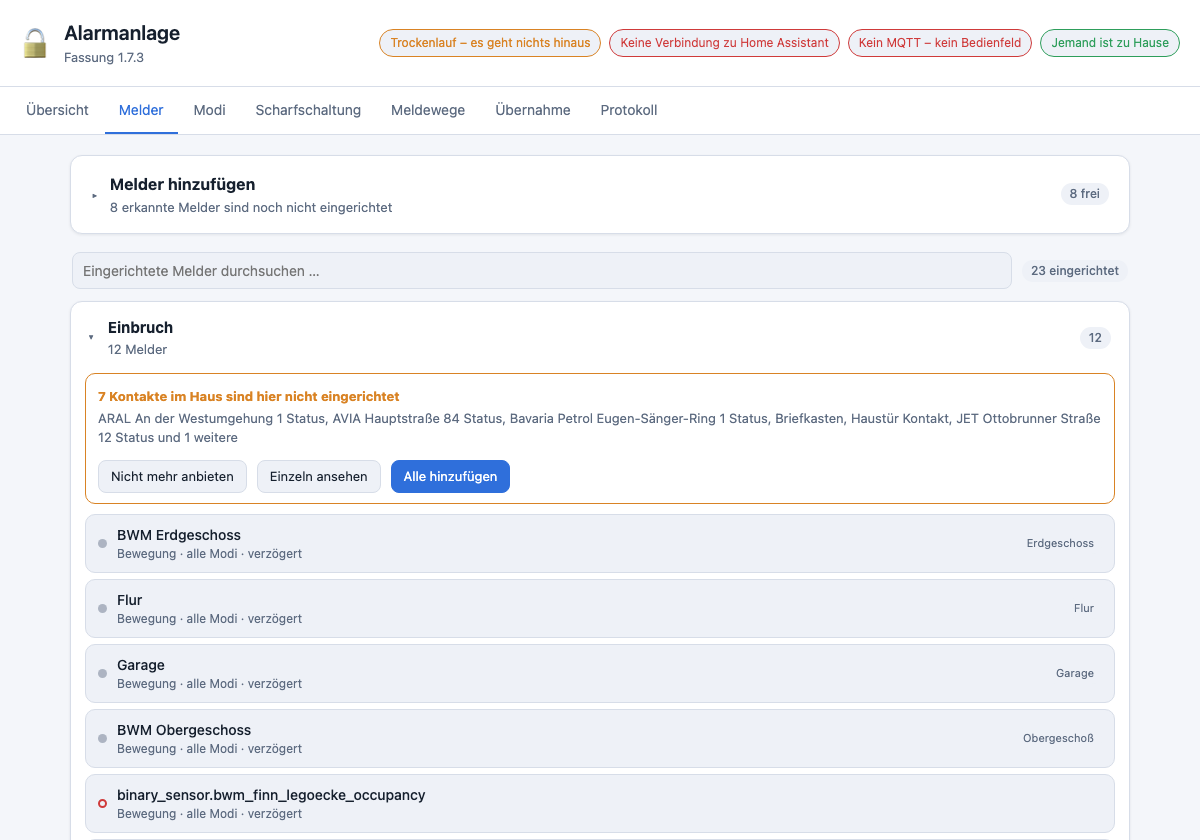
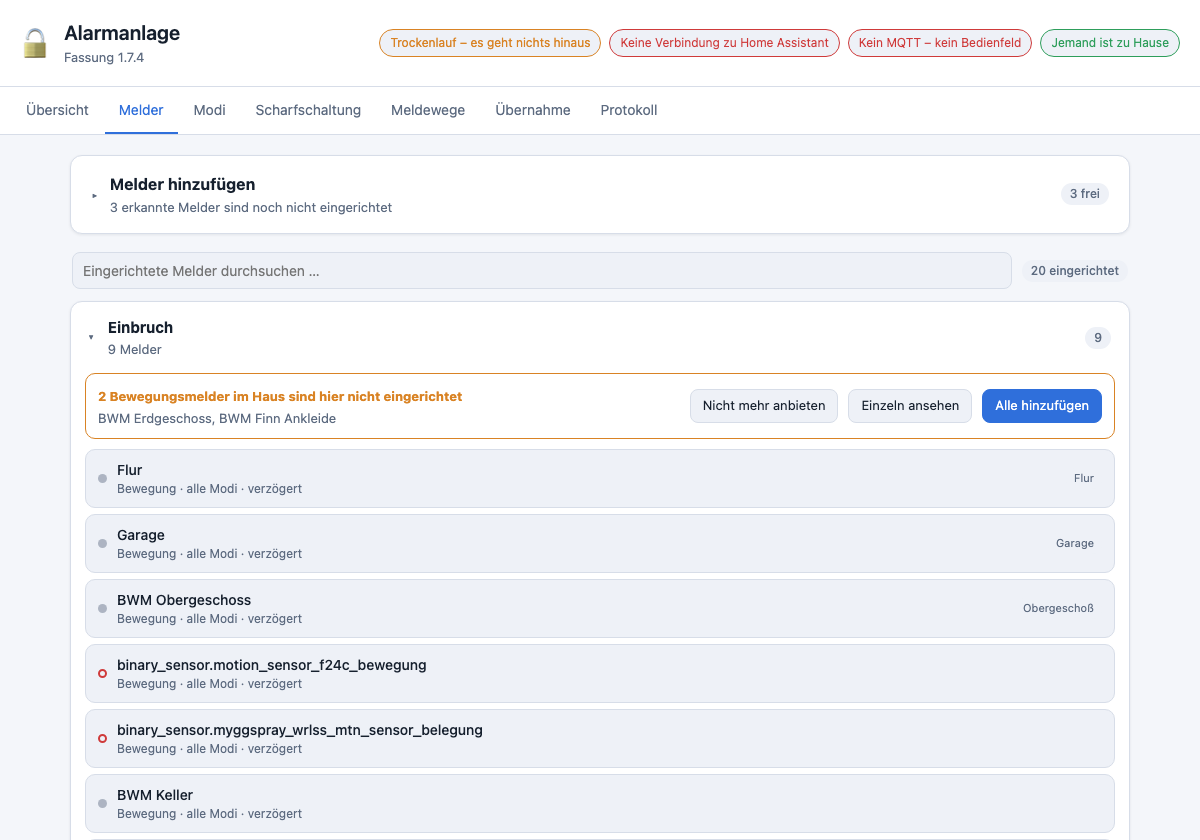
1.7.4: "Einzeln ansehen" zeigt die Einzelnen
Der Knopf am Hinweis oeffnete die vollstaendige Vorschlagsliste - in einem
gewachsenen Haus ein paar hundert Eintraege, und die drei gemeinten standen
irgendwo darin. Jetzt zeigt er genau die aus dem Hinweis, mit einem Kopf,
der das sagt, und einem Knopf "Weitere fuer diese Linie", der eine Ebene
weiter geht statt gleich ins Ganze.

Dazu ein Filter nach Linie ueber der Liste: "fuer Einbruch", "fuer Rauch",
"fuer Wasser". Wer im Einbruch-Zusammenhang sucht, will keine Rauchmelder
sehen - und erst recht nichts, was nur zufaellig dieselbe Geraeteklasse
traegt.

Und die Kopfzeile zaehlte falsch: "25 erkannte Melder sind noch nicht
eingerichtet" stand da, waehrend die Liste darunter drei zeigte. Sie
zaehlte die ausgeblendeten mit.

diff --git a/alarmanlagen_manager/www/app.js b/alarmanlagen_manager/www/app.js
@@ -10,6 +10,9 @@ const Z = {
   status: null,
   auswahl: null,
   seite: 'uebersicht',
+  /* Wenn der Blick aus einem Hinweis auf wenige Melder verengt ist:
+   * {entities, titel}. null = die ganze Liste. */
+  vorschlagFokus: null,
   ticker: null,
 };
 
@@ -432,12 +435,19 @@ function fehlHinweis(linieSchluessel, fehlend) {
   knoepfe.appendChild(weg);
 
   const ansehen = el('button', 'knopf klein leise', 'Einzeln ansehen');
-  ansehen.title = 'Öffnet die Liste – dort lässt sich auch ausblenden, was '
-    + 'gar kein Melder ist.';
+  ansehen.title = 'Zeigt genau diese Melder – dort lässt sich jeder einzeln '
+    + 'hinzufügen oder ausblenden.';
   ansehen.onclick = (ereignis) => {
     ereignis.preventDefault();
-    const arten = LINIENARTEN[linieSchluessel] || [];
-    $('melder-filter').value = arten.length === 1 ? arten[0] : '';
+    /* Nur die aus diesem Hinweis. Die volle Liste hat in einem gewachsenen
+     * Haus ein paar hundert Einträge; wer auf "Einzeln ansehen" drückt,
+     * meint die drei, die im Hinweis stehen. */
+    Z.vorschlagFokus = {
+      entities: fehlend.map((f) => f.entity_id),
+      titel: kasten.querySelector('strong').textContent,
+      linie: linieSchluessel,
+    };
+    $('melder-filter').value = '';
     $('melder-suche').value = '';
     $('melder-hinzufuegen').open = true;
     vorschlaegeZeichnen();
@@ -766,20 +776,28 @@ function melderSpeichern() {
 
 function standHinzufuegen() {
   const drin = new Set((Z.konfig.melder || []).map((m) => m.entity));
-  const frei = (Z.auswahl?.melder || []).filter((k) => !drin.has(k.entity_id));
+  /* Ausgeblendetes zählt nicht mit. Sonst behauptet die Kopfzeile „25
+   * erkannte Melder", während die Liste darunter drei zeigt – und wer die
+   * Zahl liest, sucht zweiundzwanzig, die es nicht gibt. */
+  const weg = new Set(Z.auswahl?.ignoriert || []);
+  const frei = (Z.auswahl?.melder || [])
+    .filter((k) => !drin.has(k.entity_id) && !weg.has(k.entity_id));
   const stand = $('hinzufuegen-stand');
   const zahl = $('hinzufuegen-zahl');
   if (!stand) return;
   const nuetzlich = frei.filter((k) => k.art !== 'sonstige');
-  stand.textContent = nuetzlich.length
-    ? `${nuetzlich.length} erkannte Melder sind noch nicht eingerichtet`
-    : 'Alles Erkannte ist eingerichtet';
+  stand.textContent = nuetzlich.length === 0
+    ? 'Alles Erkannte ist eingerichtet'
+    : nuetzlich.length === 1
+      ? '1 erkannter Melder ist noch nicht eingerichtet'
+      : `${nuetzlich.length} erkannte Melder sind noch nicht eingerichtet`;
   zahl.textContent = `${frei.length} frei`;
 }
 
 function vorschlaegeZeichnen() {
   const kasten = $('melder-vorschlaege');
   kasten.textContent = '';
+  kasten.parentElement.querySelector('.fokus-kopf')?.remove();
   const suche = $('melder-suche').value.toLowerCase();
   const filter = $('melder-filter').value;
   const drin = new Set((Z.konfig.melder || []).map((m) => m.entity));
@@ -787,6 +805,32 @@ function vorschlaegeZeichnen() {
 
   const weg = new Set(Z.auswahl?.ignoriert || []);
   const zeigeWeg = $('melder-ausgeblendet')?.checked;
+
+  /* Der Blick auf eine Auswahl, die aus einem Hinweis kommt. Sobald jemand
+   * sucht oder filtert, ist er wieder in der ganzen Liste – sonst wundert
+   * er sich, warum die Suche nichts findet. */
+  const fokus = (suche || filter) ? null : Z.vorschlagFokus;
+  if (fokus) {
+    const kopf = el('div', 'fokus-kopf');
+    const text = el('div');
+    text.appendChild(el('strong', null, fokus.titel));
+    text.appendChild(el('div', 'hilfe',
+      `Es werden nur diese ${fokus.entities.length} gezeigt.`));
+    kopf.appendChild(text);
+    const alle = el('button', 'knopf klein leise',
+      fokus.linie ? 'Weitere für diese Linie' : 'Alle Sensoren zeigen');
+    alle.onclick = (ereignis) => {
+      ereignis.preventDefault();
+      /* Nicht in die ganze Liste springen, sondern eine Ebene weiter:
+       * erst alles, was zu dieser Linie passt. Wer darüber hinaus will,
+       * stellt den Filter selbst um. */
+      if (fokus.linie) $('melder-filter').value = 'linie:' + fokus.linie;
+      Z.vorschlagFokus = null;
+      vorschlaegeZeichnen();
+    };
+    kopf.appendChild(alle);
+    kasten.parentElement.insertBefore(kopf, kasten);
+  }
   const sortiert = [...(Z.auswahl?.melder || [])].sort((a, b) => {
     const da = drin.has(a.entity_id) ? 1 : 0;
     const db = drin.has(b.entity_id) ? 1 : 0;
@@ -798,10 +842,18 @@ function vorschlaegeZeichnen() {
   });
 
   ausgeblendetStand(weg.size);
+  const nurDiese = fokus ? new Set(fokus.entities) : null;
   let gezeigt = 0;
   for (const kandidat of sortiert) {
-    if (weg.has(kandidat.entity_id) !== !!zeigeWeg) continue;
-    if (filter && kandidat.art !== filter) continue;
+    if (nurDiese && !nurDiese.has(kandidat.entity_id)) continue;
+    if (!nurDiese && weg.has(kandidat.entity_id) !== !!zeigeWeg) continue;
+    /* "für Einbruch" statt einer einzelnen Art: Wer im Einbruch-
+     * Zusammenhang sucht, will keine Rauchmelder sehen – und erst recht
+     * nichts, was nur zufällig dieselbe Geräteklasse trägt. */
+    if (filter.startsWith('linie:')) {
+      const arten = LINIENARTEN[filter.slice(6)] || [];
+      if (!arten.includes(kandidat.art)) continue;
+    } else if (filter && kandidat.art !== filter) continue;
     const bereich = bereiche[kandidat.entity_id] || '';
     if (suche && !`${kandidat.name} ${kandidat.entity_id} ${bereich}`
       .toLowerCase().includes(suche)) continue;
@@ -856,9 +908,15 @@ function ausgeblendetStand(anzahl) {
     `${anzahl} ausgeblendet anzeigen`;
 }
 
-$('melder-suche').oninput = vorschlaegeZeichnen;
+$('melder-suche').oninput = () => {
+  if ($('melder-suche').value) Z.vorschlagFokus = null;
+  vorschlaegeZeichnen();
+};
 $('melder-filtern').oninput = melderZeichnen;
-$('melder-filter').onchange = vorschlaegeZeichnen;
+$('melder-filter').onchange = () => {
+  if ($('melder-filter').value) Z.vorschlagFokus = null;
+  vorschlaegeZeichnen();
+};
 $('melder-ausgeblendet').onchange = vorschlaegeZeichnen;
 $('melder-alle-zurueck').onclick = async () => {
   const antwort = await schicke('api/melder/ignorieren', { alle_zurueck: true });

diff --git a/alarmanlagen_manager/www/index.html b/alarmanlagen_manager/www/index.html
@@ -92,13 +92,20 @@
         <div class="zeile">
           <input type="search" id="melder-suche" placeholder="Suchen …">
           <select id="melder-filter">
-            <option value="">alle Arten</option>
-            <option value="bewegung">Bewegung</option>
-            <option value="kontakt">Kontakt</option>
-            <option value="rauch">Rauch</option>
-            <option value="wasser">Wasser</option>
-            <option value="erschuetterung">Erschütterung</option>
-            <option value="sonstige">sonstige</option>
+            <optgroup label="Wofür">
+              <option value="linie:einbruch">für Einbruch</option>
+              <option value="linie:rauch">für Rauch</option>
+              <option value="linie:wasser">für Wasser</option>
+            </optgroup>
+            <optgroup label="Nach Art">
+              <option value="">alle Arten</option>
+              <option value="bewegung">Bewegung</option>
+              <option value="kontakt">Kontakt</option>
+              <option value="rauch">Rauch</option>
+              <option value="wasser">Wasser</option>
+              <option value="erschuetterung">Erschütterung</option>
+              <option value="sonstige">sonstige</option>
+            </optgroup>
           </select>
         </div>
         <div class="zeile" id="melder-ausgeblendet-zeile" style="display:none">

diff --git a/alarmanlagen_manager/www/style.css b/alarmanlagen_manager/www/style.css
@@ -337,6 +337,16 @@ label > input, label > select { display: block; margin-top: 4px; }
 .vorschlagszeile:last-child { border-bottom: 0; }
 .vorschlagszeile.drin { opacity: .45; }
 .vorschlagsliste { max-height: 340px; }
+/* Der Kopf über der verengten Liste. Ohne ihn sähe es aus, als wären nur
+   noch drei Sensoren im Haus. */
+.fokus-kopf {
+  display: flex; align-items: center; justify-content: space-between;
+  gap: 12px; flex-wrap: wrap;
+  border: 1px solid var(--akzent); border-radius: 8px;
+  padding: 8px 12px; margin-bottom: 8px;
+}
+.fokus-kopf strong { font-size: 13px; color: var(--akzent); }
+.fokus-kopf .hilfe { margin: 2px 0 0; }
 .kanal-weg {
   flex: 0 0 auto; border: 1px solid var(--rand); background: none;
   color: var(--text-leise); border-radius: 8px; cursor: pointer;

diff --git a/CHANGELOG.md b/CHANGELOG.md
@@ -1,5 +1,24 @@
 # Änderungen
 
+## 1.7.4 – 18.09.2026
+
+**„Einzeln ansehen“ zeigt jetzt die Einzelnen.** Der Knopf am Hinweis
+öffnete die vollständige Vorschlagsliste – in einem gewachsenen Haus ein
+paar hundert Einträge, und die drei gemeinten standen irgendwo darin. Jetzt
+zeigt er **genau die aus dem Hinweis**, mit einem Kopf, der das sagt, und
+einem Knopf *Weitere für diese Linie*, der eine Ebene weiter geht statt
+gleich ins Ganze.
+
+**Ein Filter nach Linie.** Über der Vorschlagsliste steht neben den
+einzelnen Arten jetzt *für Einbruch*, *für Rauch*, *für Wasser*. Wer im
+Einbruch-Zusammenhang sucht, will keine Rauchmelder sehen – und erst recht
+nichts, was nur zufällig dieselbe Geräteklasse trägt.
+
+**Die Kopfzeile zählte falsch.** „25 erkannte Melder sind noch nicht
+eingerichtet“ stand da, während die Liste darunter drei zeigte: Sie zählte
+die ausgeblendeten mit. Wer die Zahl liest, sucht sonst zweiundzwanzig, die
+es nicht gibt. Und bei genau einem heißt es jetzt „1 erkannter Melder ist“.
+
 ## 1.7.3 – 18.09.2026
 
 **„Nicht mehr anbieten“ direkt am Hinweis.** Der Hinweis „… sind hier nicht

diff --git a/HANDBUCH.md b/HANDBUCH.md
@@ -1,6 +1,6 @@
 # Handbuch – Alarmanlagen-Manager
 
-Für Home Assistant. Stand: Fassung 1.7.3.
+Für Home Assistant. Stand: Fassung 1.7.4.
 
 ---
 
@@ -378,6 +378,13 @@ hinzusehen, und dann verpasst er den Rauchmelder, der wirklich fehlt.
 Der Vorschlag geht nämlich nach der Geräteklasse, und die ist gutgläubig: In
 einer gewachsenen Installation tragen auch Dinge die Klasse *opening*, die
 mit dem Haus nichts zu tun haben – etwa der Öffnungszustand von Tankstellen.
+
+*Einzeln ansehen* öffnet die Liste und zeigt darin **nur die Melder aus
+diesem Hinweis**. Ein Knopf *Weitere für diese Linie* geht eine Ebene
+weiter: alles, was zu dieser Gefahrenlinie passt. Für den Einbruch sind das
+Bewegung, Kontakte und Erschütterung – keine Rauchmelder. Denselben Blick
+gibt es über dem Suchfeld als Filter *für Einbruch*, *für Rauch*, *für
+Wasser*.
 
 Ausgeblendetes kommt zurück über *Melder hinzufügen*: dort steht der
 Schalter **N ausgeblendet anzeigen** (mit ↩ je Eintrag) und der Knopf **Alle
